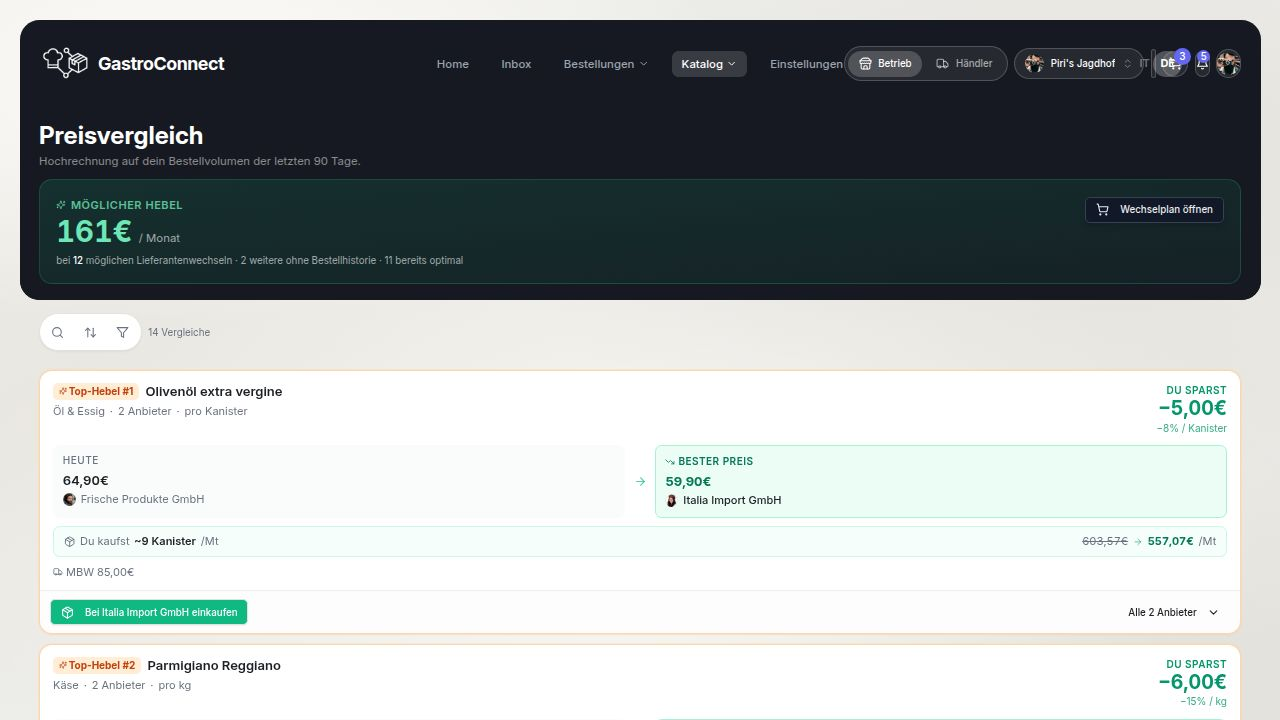
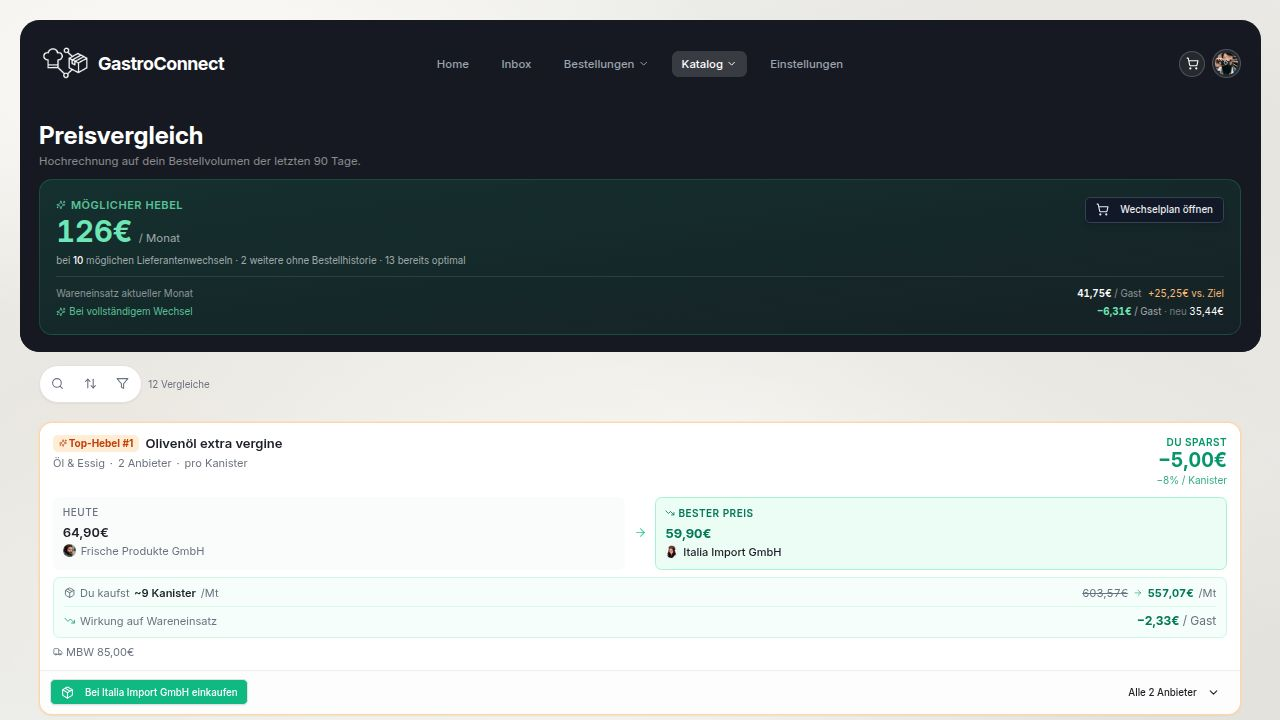
Refresh landing-page screenshots in attached_assets/landing-story
Original task: replace the quick-grab screenshots used by the pinned
feature stories on the marketing landing page with polished, caption-
accurate captures. The previous shots showed the wrong wizard step
for "Betroffene Artikel", a resolved complaint without follow-up
context, and left dev-only UI (RoleSwitcher, AccountSwitcher,
LanguageToggle, NotificationBell, debug avatars) visible.

What changed:
- price-1-overview.jpg: re-captured Preisvergleich overview with a
  clean header.
- price-2-savings.jpg (new file): Wechselplan dialog showing per-
  product savings and total monthly hebel — replaces the old
  attached_assets/landing-price-comparison.jpg used as the middle
  Preisvergleich step. Landing.tsx import updated accordingly.
- price-3-catalog.jpg: re-captured Produktkatalog with clean header.
- complaint-1-dialog.jpg: now shows step 1 of the wizard with order
  selected and the "Betroffene Produkte" picker visible, matching
  the bullet "Betroffene Artikel auswählen".
- complaint-2-inbox.jpg: re-captured restaurant inbox with chat
  opened and clean header.
- complaint-3-detail.jpg: now shows the supplier-side complaint
  detail for "Forelle nicht sashimi-frisch" (in_progress, 3 affected
  products) with the "Folgebestellung" action visible, matching
  the bullet "Nachlieferung als Folge-Bestellung".

How: temporarily wired a `?marketing=1` flag in AppLayout to hide
dev-only header chrome, plus small URL-driven helpers (role switch,
[…]

diff --git a/client/src/pages/Landing.tsx b/client/src/pages/Landing.tsx
@@ -25,7 +25,7 @@ import logoImg from "@assets/logo_no_bg.png";
 import shotHome from "@assets/landing-home.jpg";
 import shotMobile from "@assets/landing-mobile.png";
 import shotMobileSupplier from "@assets/landing-mobile-supplier.png";
-import shotPrice from "@assets/landing-price-comparison.jpg";
+import shotPrice from "@assets/landing-story/price-2-savings.jpg";
 import shotInbox from "@assets/landing-inbox.jpg";
 import shotPriceOverview from "@assets/landing-story/price-1-overview.jpg";
 import shotPriceCatalog from "@assets/landing-story/price-3-catalog.jpg";
